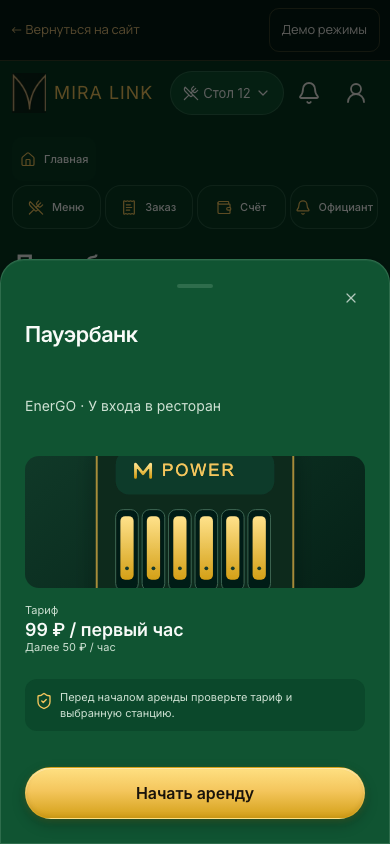
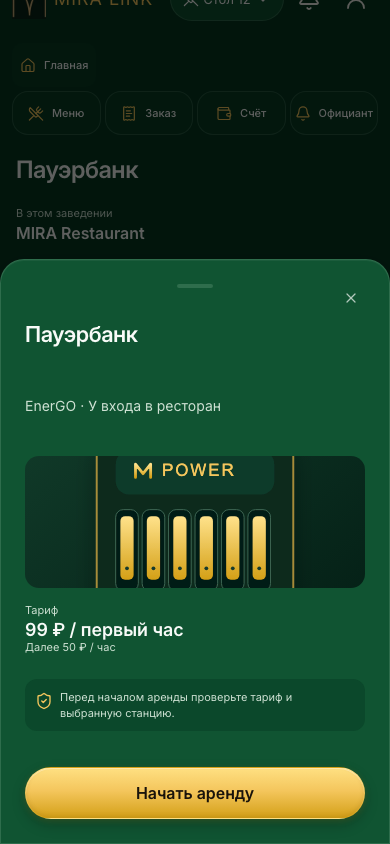
Remove table number from Powerbank context

diff --git a/components/demo-app.tsx b/components/demo-app.tsx
@@ -163,7 +163,7 @@ function Services({page,guestId,userId,venueId,qrTerminalId,favourites,onFavouri
 {page==='history'&&<GuestHistoryScreen mode={guestProductionMode} payments={s.payments.filter(p=>u?p.userId===u.id:g&&p.guestId===g.id).slice().reverse().map(p=>({id:p.id,method:p.method==='cash'?'Наличные':'Онлайн',total:money(p.total),tone:paymentStatusPresentation(p.status).tone,label:paymentStatusPresentation(p.status).label}))}/>} {page==='favorites'&&<><h3>Избранные места</h3>{!u?<Empty>Войдите в MIRA LINK, чтобы сохранять любимые места.</Empty>:!s.favorites.length?<Empty>Пока нет избранных мест. Найдите своё заведение в разделе «Рядом».</Empty>:nearbyVenues.filter(v=>s.favorites.includes(v.id)).map(v=><VenueCard key={v.id}><h3>{v.name}</h3><p>{v.category} · {v.distance}</p><Button className="outline" onClick={()=>void a.run({type:'favorite',id:v.id})}>Убрать из избранного</Button></VenueCard>)}<Button className="outline" onClick={()=>navigate('nearby')}>Найти заведение</Button></>}
 {page==='booking'&&<Card><h3>Стол в MIRA Restaurant</h3><form onSubmit={e=>{e.preventDefault();const f=new FormData(e.currentTarget);void a.run(async()=>{const id=await dispatch({type:'createBooking',guestId:g?.id,date:f.get('date'),time:f.get('time'),guests:Number(f.get('guests')),requirements:f.get('requirements'),comment:f.get('comment')});if(typeof id==='string')setBookingIds(prev=>{const next=[...prev,id];localStorage.setItem('mira-device-bookings',JSON.stringify(next));return next})})}}><Input label="Дата" name="date" type="date" required/><Input label="Время" name="time" type="time" required/><Input label="Гостей" name="guests" type="number" defaultValue="2" min="1" max="20"/><Input label="Стол / пожелания" name="requirements"/><Input label="Комментарий" name="comment"/><Button type="submit" loading={a.busy}>Забронировать</Button></form></Card>}
 {page==='review'&&<Card><h3>Как прошёл ваш вечер?</h3>{u&&g?<form onSubmit={e=>{e.preventDefault();const f=new FormData(e.currentTarget);void a.run({type:'createReview',guestId,rating:Number(f.get('rating')),text:f.get('text')})}}><Input label="Оценка от 1 до 5" name="rating" type="number" min="1" max="5" defaultValue="5"/><Input label="Отзыв" name="text" required/><Button type="submit">Оставить отзыв</Button></form>:u?<p>Отзыв можно оставить после посещения ресторана.</p>:<p>Отзывы доступны только зарегистрированным пользователям.</p>}</Card>}
-{page==='powerbank'&&<GuestPowerbankService venue={visit?{id:s.venue.id,name:s.venue.name,tableId:visit.tableId}:undefined} activeRentalId={rental?.id} qrTerminalId={qrTerminalId} busy={a.busy} onStartRental={()=>a.run({type:'rentPowerbank',guestId:g?.id})}/>}
+{page==='powerbank'&&<GuestPowerbankService venue={visit?{id:s.venue.id,name:s.venue.name}:undefined} activeRentalId={rental?.id} qrTerminalId={qrTerminalId} busy={a.busy} onStartRental={()=>a.run({type:'rentPowerbank',guestId:g?.id})}/>}
 {page==='taxi'&&<Card><h3>Такси от MIRA Restaurant</h3><Input label="Куда едем?" value={destination} onChange={e=>setDestination(e.target.value)}/><p>Партнёрский сервис такси · симуляция, без отправки реальной машины.</p><p>Пример: подача 5 минут · стоимость 450 ₽. Демонстрационные данные.</p><Button disabled={!destination.trim()} onClick={()=>void a.run(async()=>setResult(await new DemoTaxiAdapter().request(destination)))}>Рассчитать поездку</Button></Card>}
 {page==='wifi'&&<GuestWifiSurface venueName={s.venue.name} wifi={wifi} onOpenTable={onOpenTableQr}/>}
 {page==='delivery'&&<Card><h3>Доставка из MIRA</h3><p>Отдельный заказ, не связанный со столом.</p><form onSubmit={e=>{e.preventDefault();const f=new FormData(e.currentTarget);void a.run(async()=>{await dispatch({type:'createDelivery',guestId:g?.id,address:f.get('address'),items:f.get('items')});setResult('Демо-заявка доставки создана отдельно от посещения. Реальный заказ не отправлен.')})}}><Input label="Адрес" name="address" required/><Input label="Что хотите заказать?" name="items" required/><Button type="submit">Создать демо-заявку</Button></form></Card>}

diff --git a/components/guest/guest-powerbank-service.module.css b/components/guest/guest-powerbank-service.module.css
@@ -1,7 +1,7 @@
 .screen{display:grid;min-width:0;gap:12px;color:var(--guest-text-primary)}
 .screen :is(h2,h3,p){margin:0}.screen button{font-family:inherit}.loading{min-height:180px;display:grid;place-items:center;color:var(--guest-text-secondary)}
 .pageTitle{padding:0 4px}.pageTitle h2{font-size:24px;line-height:30px}.stateLabel,.contextLabel{display:block;color:var(--guest-accent);font-size:9px;line-height:13px;font-weight:750;letter-spacing:.14em}
-.context{display:flex;min-height:52px;align-items:center;justify-content:space-between;gap:12px;padding:2px 4px}.context>div{display:grid}.context>div>span,.context small{color:var(--guest-text-secondary);font-size:11px}.context>div>strong{font-size:16px}.context>span{display:flex;align-items:center;gap:5px;color:var(--guest-accent);font-size:12px;white-space:nowrap}.context svg{width:16px}
+.context{display:flex;min-height:52px;align-items:center;justify-content:space-between;gap:12px;padding:2px 4px}.context>div{display:grid}.context>div>span{color:var(--guest-text-secondary);font-size:11px}.context>div>strong{font-size:16px}.context>span{display:flex;align-items:center;gap:5px;color:var(--guest-accent);font-size:12px;white-space:nowrap}.context svg{width:16px}
 .offers{display:grid;gap:10px}.offer{display:grid;grid-template-columns:100px minmax(0,1fr);min-height:166px;overflow:hidden;border:1px solid var(--guest-border);border-radius:18px;background:var(--guest-surface)}.offer>img{width:100px;height:100%;object-fit:cover}.offerBody{display:grid;min-width:0;gap:7px;padding:11px}.offerHeading{display:flex;align-items:start;justify-content:space-between;gap:8px}.offerHeading>div{display:grid;min-width:0}.offerHeading strong{font-size:17px}.offerHeading span{color:var(--guest-text-muted);font-size:10px}.offerHeading em{flex:0 0 auto;padding:3px 6px;border:1px solid var(--guest-border-strong);border-radius:999px;color:var(--guest-accent);font-size:8px;font-style:normal}.offerBody>p{display:flex;align-items:center;gap:4px;color:var(--guest-text-secondary);font-size:11px;line-height:15px}.offerBody>p svg{width:14px}.availability{display:flex;align-items:end;justify-content:space-between;gap:8px}.availability>span{display:flex;align-items:center;gap:3px;color:var(--guest-text-secondary);font-size:10px}.availability>span:last-child{display:grid;text-align:right}.availability strong{color:var(--guest-text-primary);font-size:14px}.availability small{color:var(--guest-text-muted);font-size:9px}.availability svg{width:14px;color:var(--guest-accent)}.offerBody>button{min-height:44px!important;padding-block:6px!important;font-size:13px!important}
 .actionRow{display:flex;width:100%;min-height:58px;align-items:center;justify-content:space-between;gap:12px;padding:8px 4px;border:0;border-block:1px solid var(--guest-border);border-radius:0;color:var(--guest-text-primary);background:transparent;text-align:left}.actionRow>span:first-child{display:grid}.actionRow strong{font-size:14px}.actionRow small{color:var(--guest-text-secondary);font-size:10px}.actionRow>span:last-child{display:flex;align-items:center;color:var(--guest-accent);font-size:10px;white-space:nowrap}.actionRow svg{width:16px}
 .activeRental{display:grid;gap:13px;padding:16px;border:1px solid var(--guest-border-strong);border-radius:20px;background:linear-gradient(145deg,var(--guest-surface-elevated),var(--guest-surface));box-shadow:var(--accent-glow)}.rentalTitle{display:flex;align-items:center;justify-content:space-between;gap:12px}.rentalTitle h3{font-size:21px}.rentalTitle p{color:var(--guest-text-secondary)}.rentalTitle>svg{width:42px;height:42px;color:var(--guest-accent)}.rentalFacts{display:grid;grid-template-columns:repeat(3,minmax(0,1fr));gap:6px}.rentalFacts>span{display:grid;gap:2px;padding:8px;border-radius:12px;background:var(--guest-surface-soft);color:var(--guest-text-secondary);font-size:9px}.rentalFacts strong{color:var(--guest-text-primary);font-size:13px}.activeRental>button{min-height:48px}

diff --git a/components/guest/guest-powerbank-service.tsx b/components/guest/guest-powerbank-service.tsx
@@ -6,7 +6,7 @@ import {MiraBottomSheet,MiraButton} from '@/components/mira';
 import {demoPowerbankService,loadDemoPowerbankView,type PowerbankDemoScenario,type PowerbankProvider,type PowerbankServiceView,type PowerbankStation} from '@/lib/powerbank';
 import styles from './guest-powerbank-service.module.css';
 
-type VenueContext={id:string;name:string;tableId?:number};
+type VenueContext={id:string;name:string};
 type Props={
  venue?:VenueContext;
  activeRentalId?:string;
@@ -83,7 +83,7 @@ export function GuestPowerbankService({venue,activeRentalId,qrTerminalId,busy=fa
   {!showRental&&!showReturn&&!view.providerError&&scenario==='none'&&<section className={styles.emptyState}><BatteryCharging aria-hidden="true"/><span className={styles.contextLabel}>{venue?'СЕЙЧАС В ЭТОМ ЗАВЕДЕНИИ':'СЕЙЧАС РЯДОМ'}</span><h3>Нет свободных пауэрбанков</h3><p>Покажем ближайшие совместимые станции с доступными устройствами.</p><MiraButton onClick={()=>setNearbyOpen(true)}>Найти ближайшую станцию</MiraButton></section>}
 
   {!showRental&&!showReturn&&!view.providerError&&scenario!=='none'&&<>
-   <section className={styles.context} aria-label={venue?'Текущее заведение':'Станции рядом'}><div><span>{venue?'В этом заведении':'Рядом с вами'}</span><strong>{venue?.name??view.currentStations[0]?.venueName}</strong>{venue?.tableId&&<small>Стол {venue.tableId}</small>}</div>{view.currentStations.length>1&&<span><Zap aria-hidden="true"/>{view.currentStations.reduce((total,station)=>total+(station.availableUnits??0),0)} доступно</span>}</section>
+   <section className={styles.context} aria-label={venue?'Текущее заведение':'Станции рядом'}><div><span>{venue?'В этом заведении':'Рядом с вами'}</span><strong>{venue?.name??view.currentStations[0]?.venueName}</strong></div>{view.currentStations.length>1&&<span><Zap aria-hidden="true"/>{view.currentStations.reduce((total,station)=>total+(station.availableUnits??0),0)} доступно</span>}</section>
    <div className={styles.offers}>{view.currentStations.map(station=><StationOffer key={station.id} station={station} provider={providerFor(view.providers,station)} showRecommendation={view.providers.length>1} onRent={setSelected}/>)}</div>
   </>}
 

diff --git a/tests/e2e/guest-powerbank.spec.ts b/tests/e2e/guest-powerbank.spec.ts
@@ -30,7 +30,7 @@ test('Powerbank 2.1 EnerGO-only launch states and rental flow',async({page})=>{
  await expect(page.getByText('Заряд всегда рядом',{exact:true})).toHaveCount(0);
  await expect(page.getByText('СЕРВИС MIRA LINK',{exact:true})).toHaveCount(0);
  await expect(page.getByText('MIRA Restaurant',{exact:true}).last()).toBeVisible();
- await expect(page.getByRole('region',{name:'Текущее заведение'}).getByText('Стол 12',{exact:true})).toBeVisible();
+ await expect(page.getByRole('region',{name:'Текущее заведение'}).getByText('Стол 12',{exact:true})).toHaveCount(0);
  await expect(page.getByLabel('Предложение EnerGO')).toContainText('6 доступно');
  await expect(page.getByLabel('Предложение EnerGO')).toContainText('99 ₽');
  await expect(page.getByText('Provider B',{exact:true})).toHaveCount(0);
